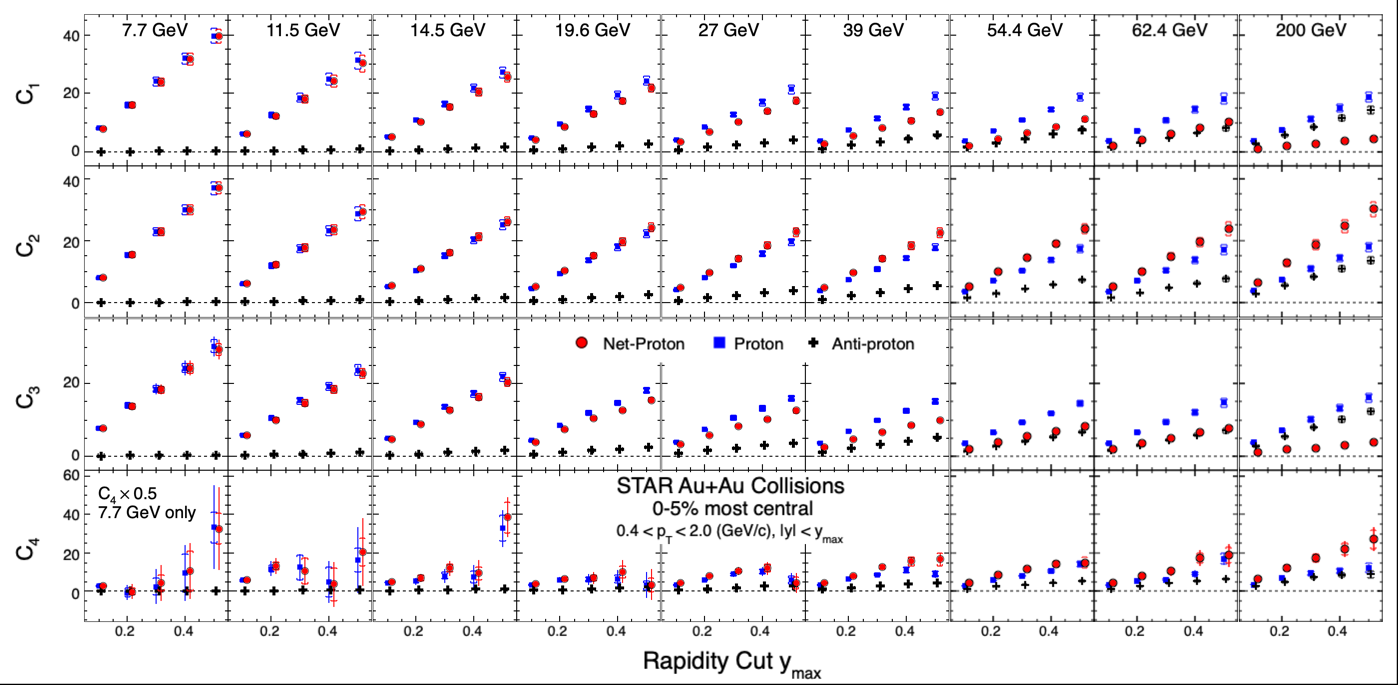
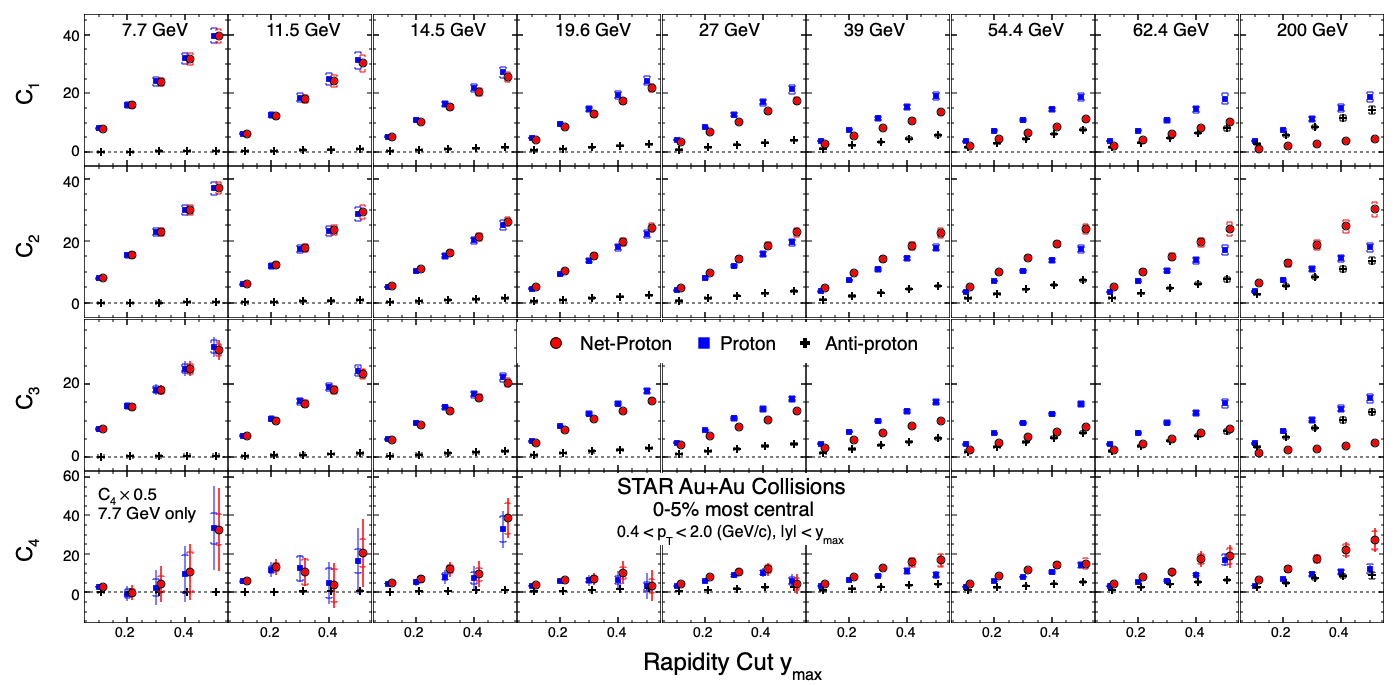
minor update for Fig.15

diff --git a/54GeVErrata/PRC/Fig15_Cn_y.C b/54GeVErrata/PRC/Fig15_Cn_y.C
@@ -1,5 +1,5 @@
 #include "draw.C+"
-#include "style.C"
+#include "style.C+"
 
 void Fig15_Cn_y()
 {
@@ -200,13 +200,13 @@ void Fig15_Cn_y()
   pad_coll->Draw();
   pad_coll->cd();
 
-  drawText(0.05, 0.7, "STAR Au+Au Collisions", 42, 0.34);
+  drawText(0.05, 0.7, "STAR Au+Au Collisions", 42, 0.33);
   drawText(0.16, 0.4, "0-5% most central", 42, 0.30);
   drawText(0.05, 0.1, "0.4 < p_{T} < 2.0 (GeV/c), |y| < y_{max}", 42, 0.25);
   pad_coll->Update();
 
   c1->cd();
-  TPad *pad_leg = new TPad("pad_leg", "", 0.39, 0.47, 0.67, 0.53);
+  TPad *pad_leg = new TPad("pad_leg", "", 0.37, 0.47, 0.67, 0.53);
   pad_leg->Draw();
   pad_leg->cd();
 
@@ -219,7 +219,7 @@ void Fig15_Cn_y()
   for(int i=0;i<NP;i++) {
     leg[i] = new TLegend(x1_leg[i], 0.1, x2_leg[i], 0.9);
     leg[i]->SetLineColor(10);
-    leg[i]->SetTextSize(0.45);
+    leg[i]->SetTextSize(0.5);
     gr_leg[i] = (TGraphErrors *)gr_stat[0][0][index_leg[i]]->Clone();
     gr_leg[i]->SetMarkerSize(1.3);
     leg[i]->AddEntry(gr_leg[i], name_leg[i], "p");
